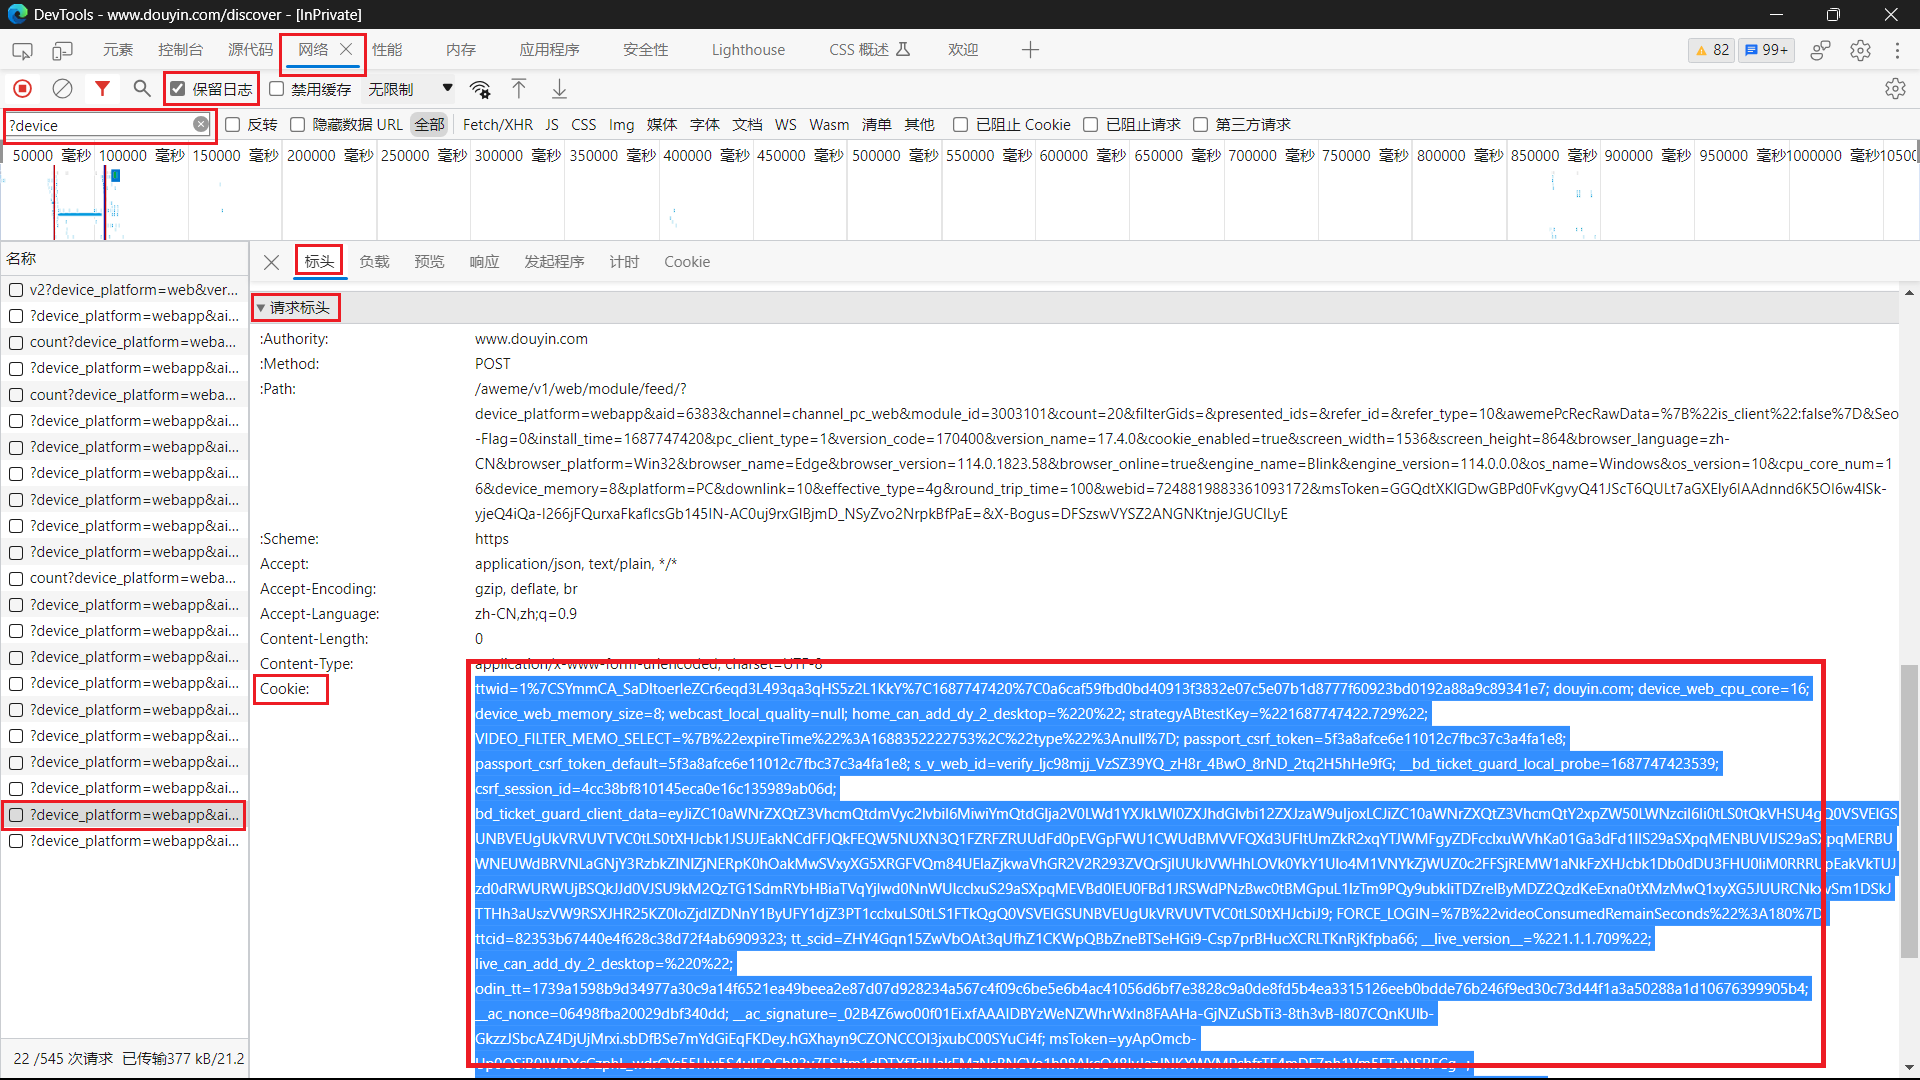
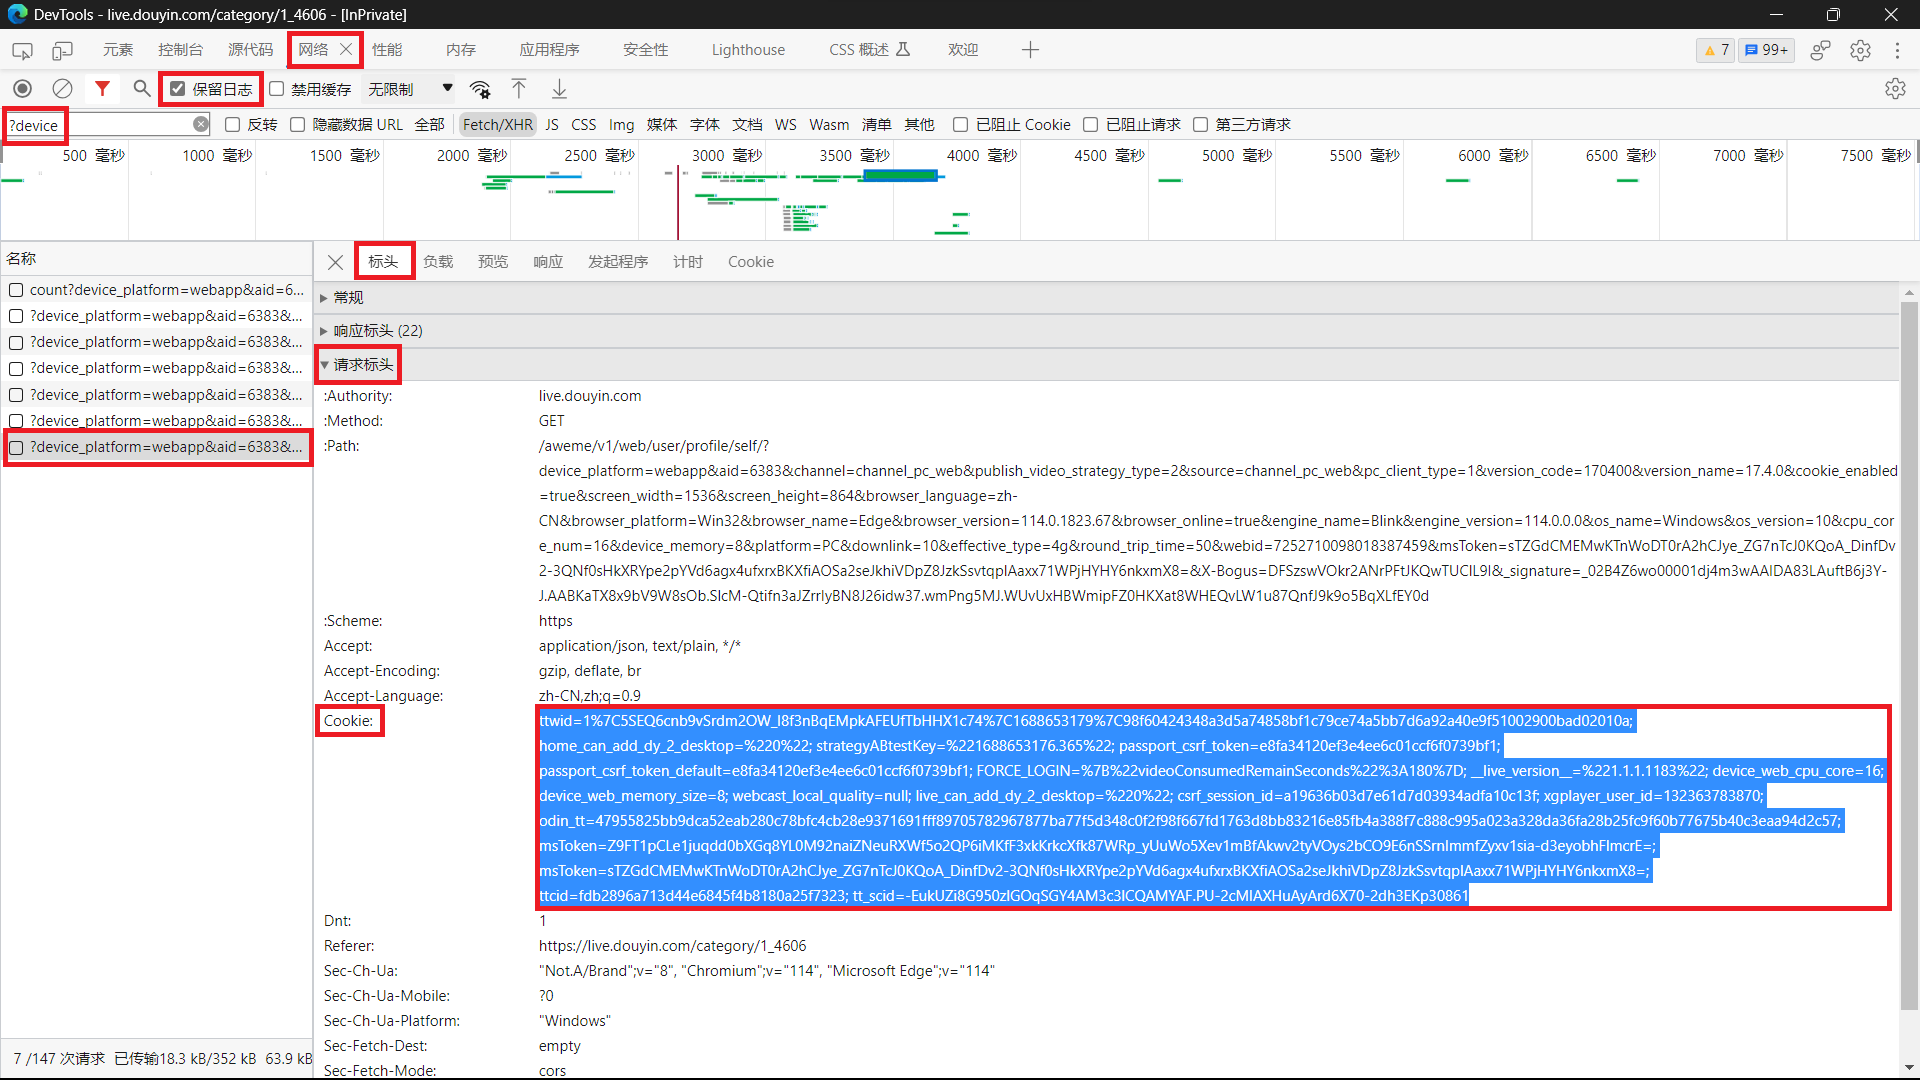
更新 Cookie 获取教程

diff --git a/docs/Cookie教程.md b/docs/Cookie教程.md
@@ -5,19 +5,20 @@
 
 **大致步骤：**
 
-1. 打开浏览器(可选无痕模式启动)，访问`https://www.douyin.com/`
-2. 按`F12`打开开发人员工具
-3. 选择`网络`选项卡
-4. 勾选`保留日志`
-5. 在`筛选器`输入框输入`?device`
-6. 点击`抖音网页版`的`直播`页面
-7. 在开发人员工具选择最新的数据包
-8. 依次查找`标头`->`请求标头`->`Cookie`
-9. 检查`Cookie`是否包含`passport_csrf_token`和`odin_tt`字段
-10. 如果未包含所需字段，尝试刷新网页或者重新点击直播页面
-11. 全选并复制`Cookie`的值
-12. 打开`main.py`，写入`Cookie`
+1. 打开浏览器\(可选无痕模式启动\)，访问`https://www.douyin.com/`
+2. 登录抖音账号\(可跳过\)
+3. 按 `F12` 打开开发人员工具
+4. 选择 `网络` 选项卡
+5. 勾选 `保留日志`
+6. 在 `筛选器` 输入框输入 `?device`
+7. 点击 `抖音网页版` 的 `直播` 页面
+8. 在开发人员工具选择最新的数据包
+9. 依次查找 `标头` -> `请求标头` -> `Cookie`
+10. 检查 `Cookie` 是否包含 `passport_csrf_token` 和 `odin_tt` 字段
+11. 如果未包含所需字段，尝试刷新网页或者重新点击直播页面
+12. 全选并复制 `Cookie` 的值
+13. 打开 `main.py` ，写入 `Cookie`
 
-**结果示例：**
+**截图示例：**
 
 <img src="Cookie教程.png" alt="开发人员工具">
